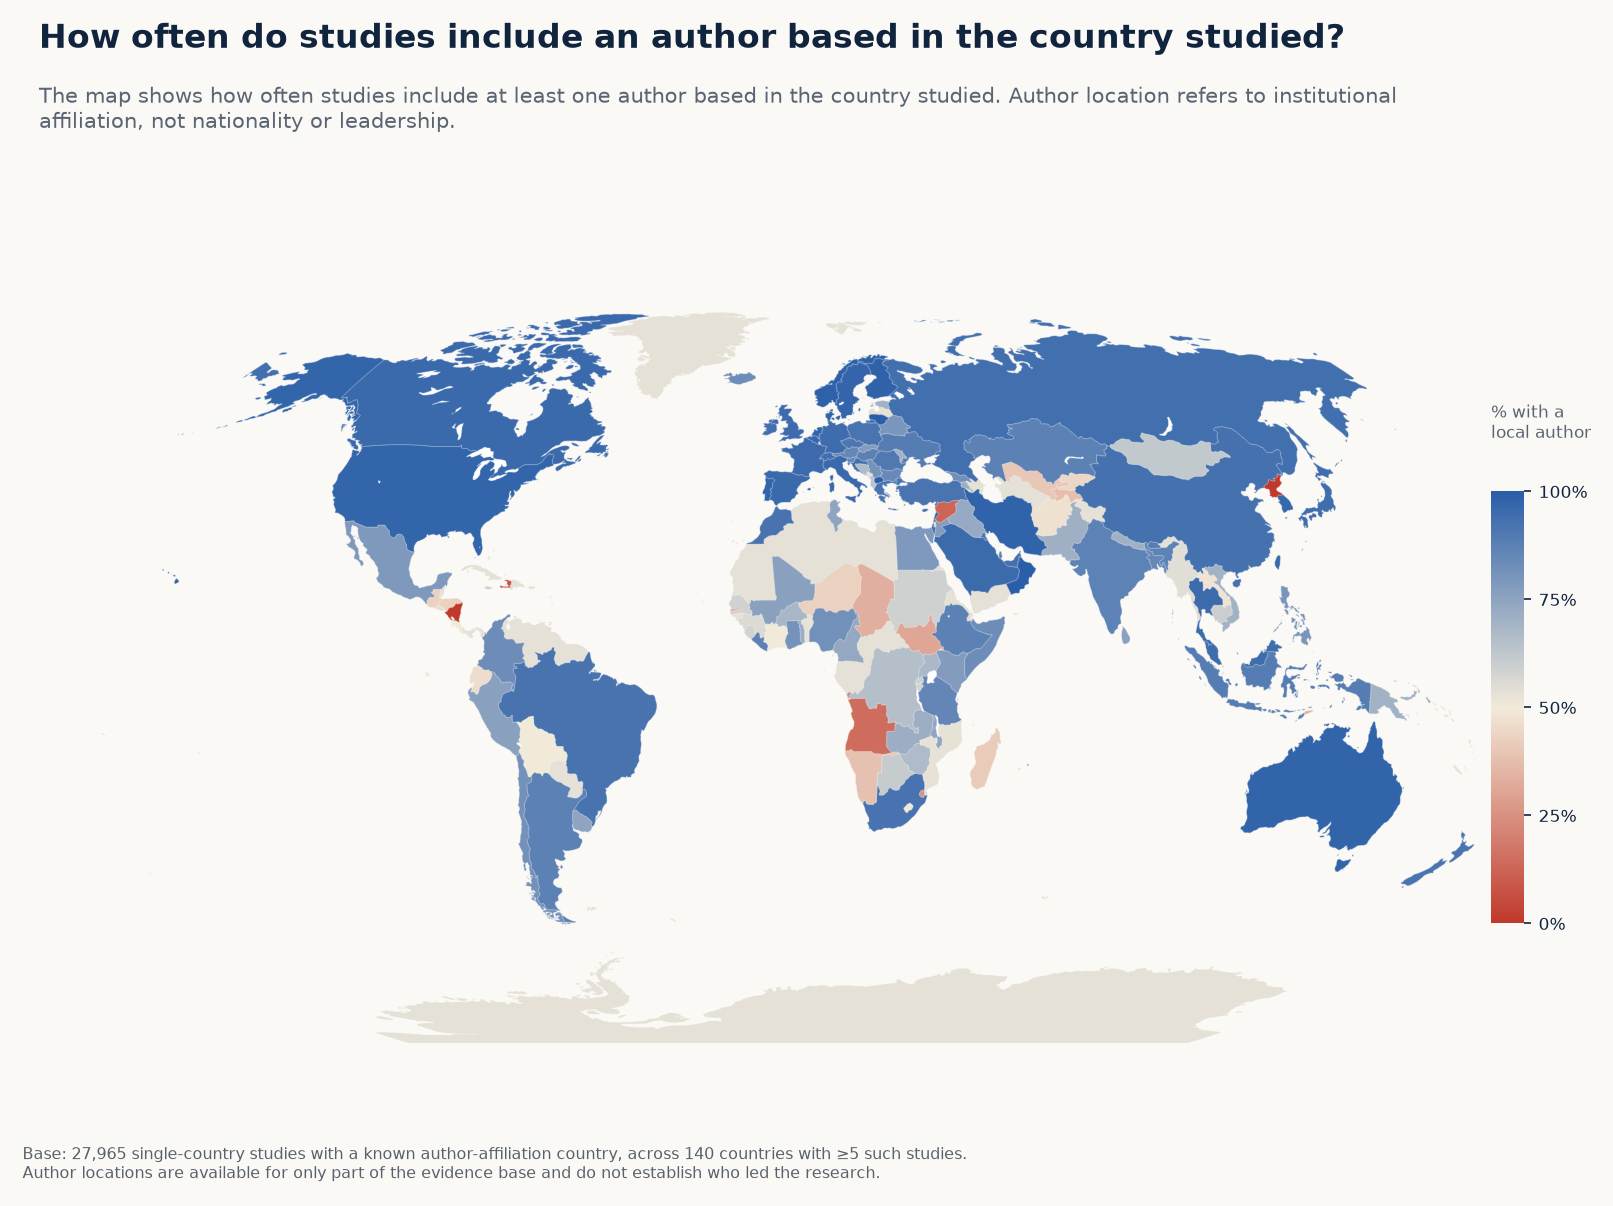
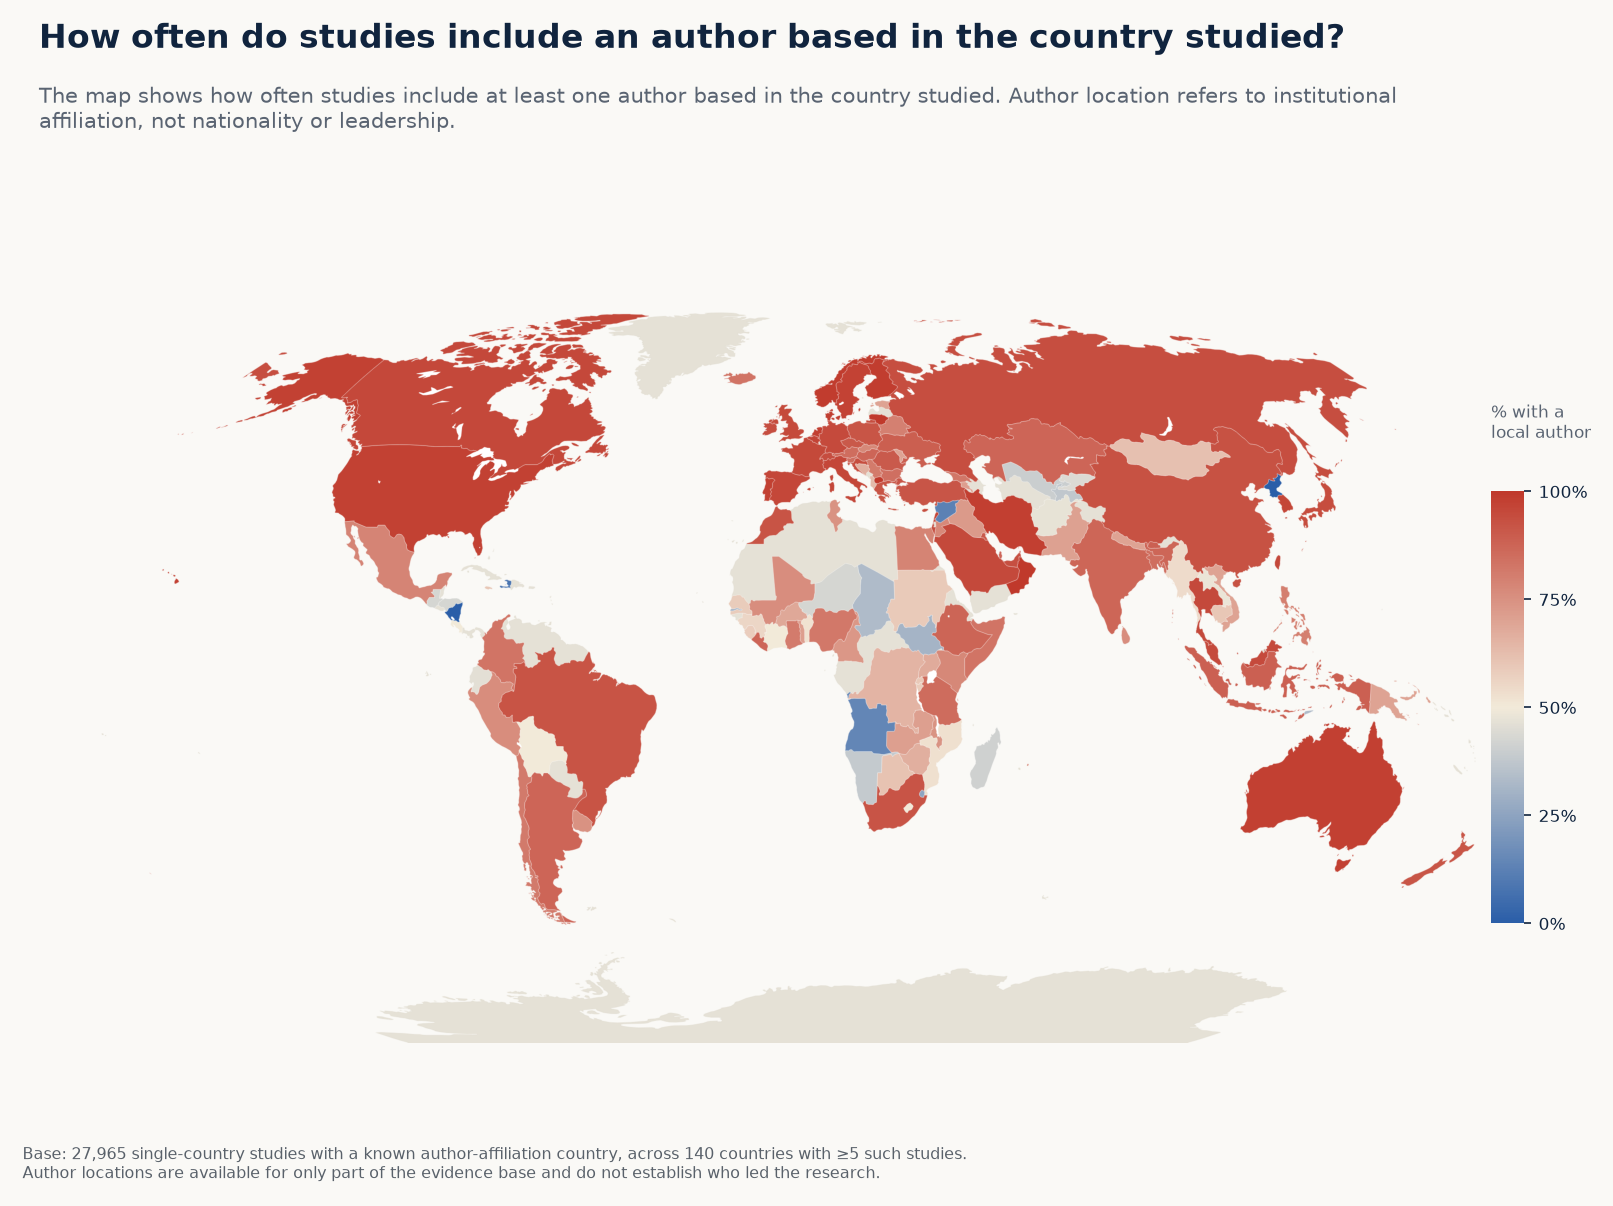
Red = high, blue = low on the four red-blue figures
A reviewer read the red-blue maps as heat maps (dark red = high) and
found them reversed. Flip the scales on fig_worldmap, fig_map_burden,
fig_map_authorship and fig_funder_opportunity so red marks more and
blue less, and swap the colour words in the burden and disease-area
captions. Re-rendered with figure_copy_v2_5.json; cache-bust bumped.

diff --git a/docs/index.html b/docs/index.html
@@ -11,7 +11,7 @@
      versions with SHA-384 integrity hashes verified by double fetch. -->
 <link rel="stylesheet" href="https://cdn.jsdelivr.net/npm/tom-select@2.3.1/dist/css/tom-select.min.css" integrity="sha384-krui876Mk6M6Lq6uj1SQo+u4MoImxFwCfwzWNU982QBMNci3VMZ3FoYSdUakJD5I" crossorigin="anonymous">
 <link rel="stylesheet" href="https://cdn.jsdelivr.net/npm/nouislider@15.8.1/dist/nouislider.min.css" integrity="sha384-PSZaVsyG9jDu8hFaSJev5s/9poIJlX7cuxSGdqCgXRHpo2DzIaZAyCd2rG/DJJmV" crossorigin="anonymous">
-<link rel="stylesheet" href="styles.css?v=2026-10-14g">
+<link rel="stylesheet" href="styles.css?v=2026-10-17a">
 </head>
 <body>
 
@@ -82,7 +82,7 @@
         <div class="card-body overview-analysis-body">
           <button class="overview-figure-button" id="ov-worldmap-open" type="button"
                   aria-label="Open the figure showing which countries the studies examine">
-            <img class="overview-analysis-figure" src="figures/fig_worldmap.png?v=2026-10-14g"
+            <img class="overview-analysis-figure" src="figures/fig_worldmap.png?v=2026-10-17a"
                  alt="World map showing which countries health financing studies examine">
           </button>
         </div>
@@ -95,7 +95,7 @@
         <div class="card-body overview-analysis-body">
           <button class="overview-figure-button" id="ov-function-open" type="button"
                   aria-label="Open the studies by financing function figure">
-            <img class="overview-analysis-figure" src="figures/fig_function_bar.png?v=2026-10-14g"
+            <img class="overview-analysis-figure" src="figures/fig_function_bar.png?v=2026-10-17a"
                  alt="Bar chart showing studies by health financing function">
           </button>
         </div>
@@ -108,7 +108,7 @@
         <div class="card-body overview-analysis-body">
           <button class="overview-figure-button" id="ov-disease-method-open" type="button"
                   aria-label="Open the figure showing how each disease area is evaluated">
-            <img class="overview-analysis-figure" src="figures/fig_disease_method.png?v=2026-10-14g"
+            <img class="overview-analysis-figure" src="figures/fig_disease_method.png?v=2026-10-17a"
                  alt="Heatmap showing the mix of financing functions evaluated within each disease area">
           </button>
         </div>
@@ -147,7 +147,7 @@
     <div class="theme-wrap">
       <div id="gal-index">
         <header class="thematic-hero">
-          <img class="thematic-hero-map" src="figures/fig_worldmap.png?v=2026-10-14g" alt="" aria-hidden="true">
+          <img class="thematic-hero-map" src="figures/fig_worldmap.png?v=2026-10-17a" alt="" aria-hidden="true">
           <div class="thematic-hero-copy">
             <div class="thematic-eyebrow">Thematic analysis</div>
             <h1>Explore key patterns in the global health financing evidence base.</h1>
@@ -741,7 +741,7 @@
 <script src="https://cdn.jsdelivr.net/npm/plotly.js-dist-min@2.35.2/plotly.min.js" integrity="sha384-cCVCZkAjYNxaYKbM8lsArLznDF/SvMFr1jcZrvOpSTCa0W40ZAdLzHCEulnUa5i7" crossorigin="anonymous"></script>
 <script src="https://cdn.jsdelivr.net/npm/tom-select@2.3.1/dist/js/tom-select.complete.min.js" integrity="sha384-cnROoUgVILyibe3J0zhzWoJ9p2WmdnK7j/BOTSWqVDbC1pVw2d+i6Q/1ESKJKCYf" crossorigin="anonymous"></script>
 <script src="https://cdn.jsdelivr.net/npm/nouislider@15.8.1/dist/nouislider.min.js" integrity="sha384-EcVTHT5RdDTvzbTIbNOtaNxNALeJYDgmv5Crp3NBmcdrCPrDnqp6I1+ETJ/FCFHI" crossorigin="anonymous"></script>
-<script type="module" src="app.js?v=2026-10-14g"></script>
+<script type="module" src="app.js?v=2026-10-17a"></script>
 
 </body>
 </html>

diff --git a/docs/app.js b/docs/app.js
@@ -1,6 +1,6 @@
 // Cache-busting build token — bump alongside index.html's ?v= query string
 // whenever app.js or the data files change.
-const BUILD = "2026-10-14g";
+const BUILD = "2026-10-17a";
 
 const CODED_COLS = ["study_design", "type_of_analysis", "data_type", "data_source",
   "unit_of_observation", "geo_scope", "era"];

diff --git a/docs/dex_hff/build_figures_v2_5.py b/docs/dex_hff/build_figures_v2_5.py
@@ -3370,14 +3370,14 @@ if HAVE_PLOTLY:
     build_continuous_map_figure(
         "fig_map_burden.png",
         "Research intensity against disease burden",
-        "HFF studies naming each country, per 100,000 DALYs of disease burden. Blue: more research per "
-        "unit of burden than the typical studied country; red: less.",
+        "HFF studies naming each country, per 100,000 DALYs of disease burden. Red: more research per "
+        "unit of burden than the typical studied country; blue: less.",
         f"The median studied country has {studied_b['per100k'].median():.2f} studies per 100,000 DALYs "
         f"— rich, small countries cluster far above that line, populous L&MICs far below it.",
         f"Base: {len(studied_b):,} countries with GBD 2023 burden data and ≥1 study; global median "
         f"{studied_b['per100k'].median():.2f}. Grey = no study naming the country, or no GBD burden row.",
         studied_b["iso3"].tolist(), studied_b["log_per100k"].tolist(),
-        ["#8c2d20", "#c0392b", "#f2ead9", "#5b78ab", "#2e4a72"],
+        ["#2e4a72", "#5b78ab", "#f2ead9", "#c0392b", "#8c2d20"],
         med_log - half_span, med_log + half_span,
         [med_log - half_span, med_log - half_span / 2, med_log, med_log + half_span / 2, med_log + half_span],
         ["low", "", "median", "", "high"], "studies per\n100k DALYs")
@@ -3468,7 +3468,7 @@ if HAVE_PLOTLY:
         f"Base: {len(wdf):,} countries with ≥1 study and population data. Grey = no study naming the "
         f"country. Population: World Bank.",
         wdf["iso3"].tolist(), wdf["log_per10m"].tolist(),
-        ["#cc2f27", "#efe9da", "#2a5ea8"], wmin, wmax,
+        ["#2a5ea8", "#efe9da", "#cc2f27"], wmin, wmax,
         [wmin, (wmin + wmax) / 2, wmax], ["low", "", "high"], "studies per\n10M people")
 
     # --- fig_map_method: modal type of analysis per country ---
@@ -3534,13 +3534,13 @@ if HAVE_PLOTLY:
             "fig_map_authorship.png",
             "Who studies whom",
             "Share of a country's single-country HFF studies that have at least one author based there. "
-            "Blue = mostly domestic; red = mostly produced from outside.",
+            "Red = mostly domestic; blue = mostly produced from outside.",
             f"{countries[most_external[0]]['country']} has the lowest local-authorship share "
             f"({most_external[1]:.0f}%) among countries with ≥5 studies with a known affiliation.",
             f"Base: {sum(r[2] for r in ma_rows):,} single-country studies with a known author-affiliation "
             f"country, across {len(ma_rows)} countries with ≥5 such studies.",
             ma_isos, ma_vals,
-            ["#c0392b", "#f2ead9", "#2a5ea8"], 0, 100,
+            ["#2a5ea8", "#f2ead9", "#c0392b"], 0, 100,
             [0, 25, 50, 75, 100], ["0%", "25%", "50%", "75%", "100%"], "% with a\nlocal author")
 
 # ---------------------------------------------------------------------------
@@ -3978,8 +3978,8 @@ if have_taxonomy:
 
     opp_headline = "Financing-function attention diverges sharply by disease area"
     opp_desc = ("For each MeSH-derived disease category, its share of tags for a given financing function, "
-                "divided by that function's overall share across all disease-tagged studies. Blue = "
-                "disproportionately more attention; red = disproportionately less.")
+                "divided by that function's overall share across all disease-tagged studies. Red = "
+                "disproportionately more attention; blue = disproportionately less.")
     opp_finding = (
         f"{most_over[0]} studies are tagged {SHORT_FN.get(most_over[1], most_over[1])} "
         f"{2 ** most_over[3]:.2g}× as often as the disease-tagged average, while {most_under[0]} studies "
@@ -3989,7 +3989,7 @@ if have_taxonomy:
 
     masked = np.ma.masked_invalid(log_grid)
     opp_cmap = mcolors.LinearSegmentedColormap.from_list(
-        "opp", ["#8c2d20", "#c0392b", "#f2ead9", "#5b78ab", "#2e4a72"])
+        "opp", ["#2e4a72", "#5b78ab", "#f2ead9", "#c0392b", "#8c2d20"])
     opp_cmap.set_bad("#e5e1d6")
     opp_norm = mcolors.Normalize(vmin=-2, vmax=2)
 
